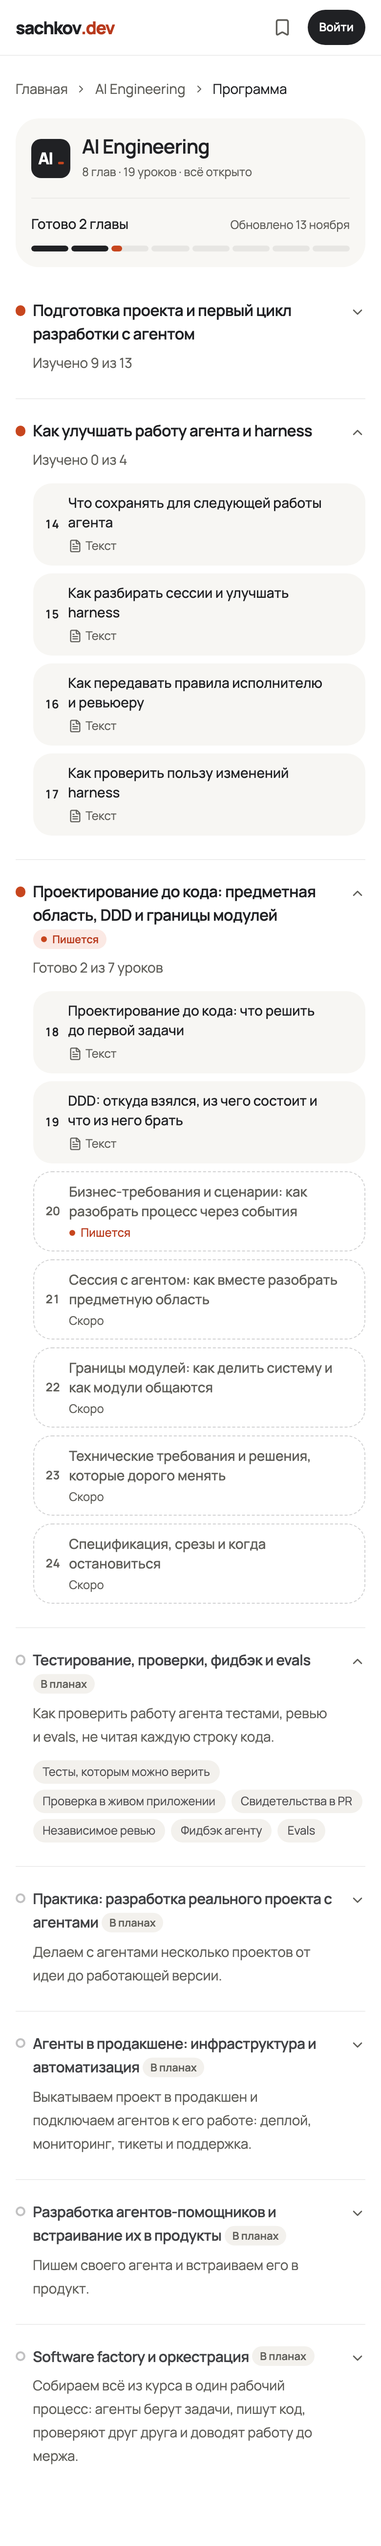
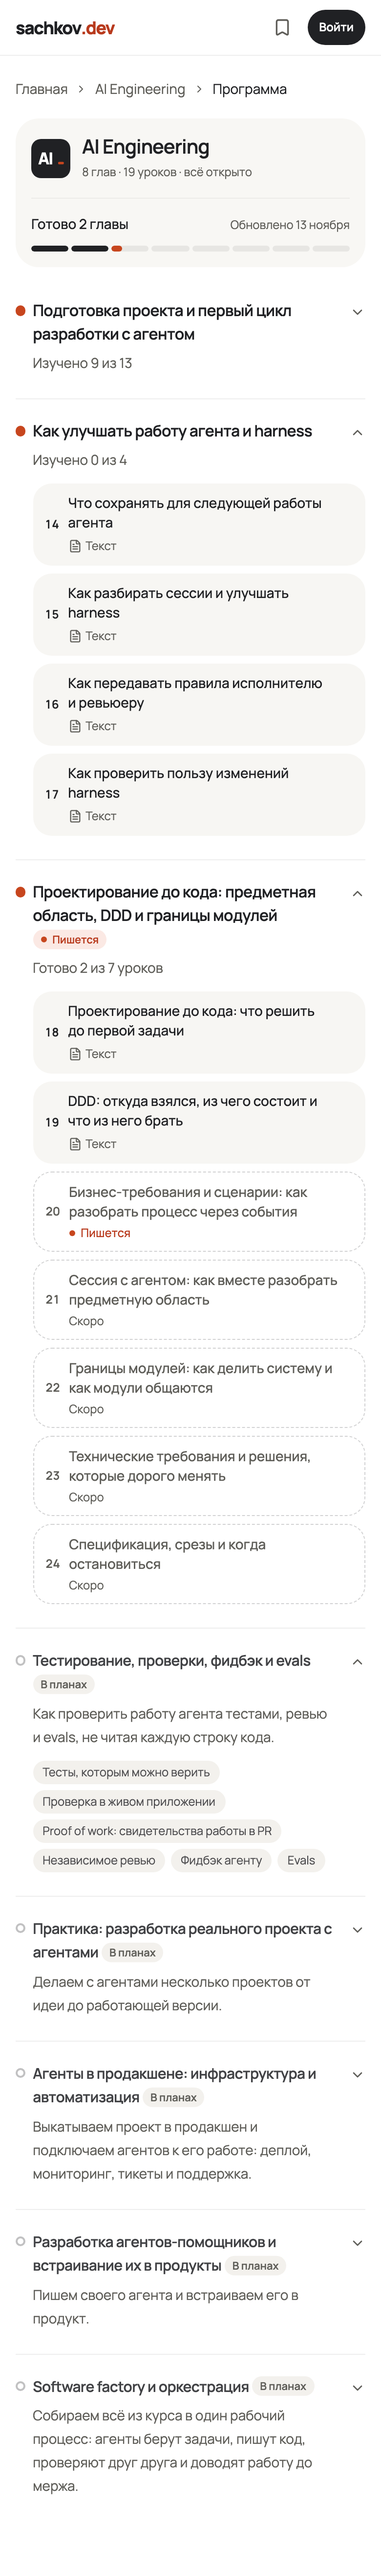
prototype(library): proof of work в главе о тестировании

diff --git a/apps/web/src/_pages/library-discovery/ui/course-roadmap-prototype.stories.tsx b/apps/web/src/_pages/library-discovery/ui/course-roadmap-prototype.stories.tsx
@@ -142,7 +142,7 @@ const fullRoadmap: Roadmap = {
       [
         "Тесты, которым можно верить",
         "Проверка в живом приложении",
-        "Свидетельства в PR",
+        "Proof of work: свидетельства работы в PR",
         "Независимое ревью",
         "Фидбэк агенту",
         "Evals",
@@ -741,7 +741,9 @@ export const Expanded: Story = {
     );
     if (next === null) throw new Error("Missing planned chapter topics");
     await userEvent.click(next);
-    await expect(canvas.getByText("Свидетельства в PR")).toBeVisible();
+    await expect(
+      canvas.getByText("Proof of work: свидетельства работы в PR"),
+    ).toBeVisible();
   },
 };
 export const ExpandedMobile: Story = {
